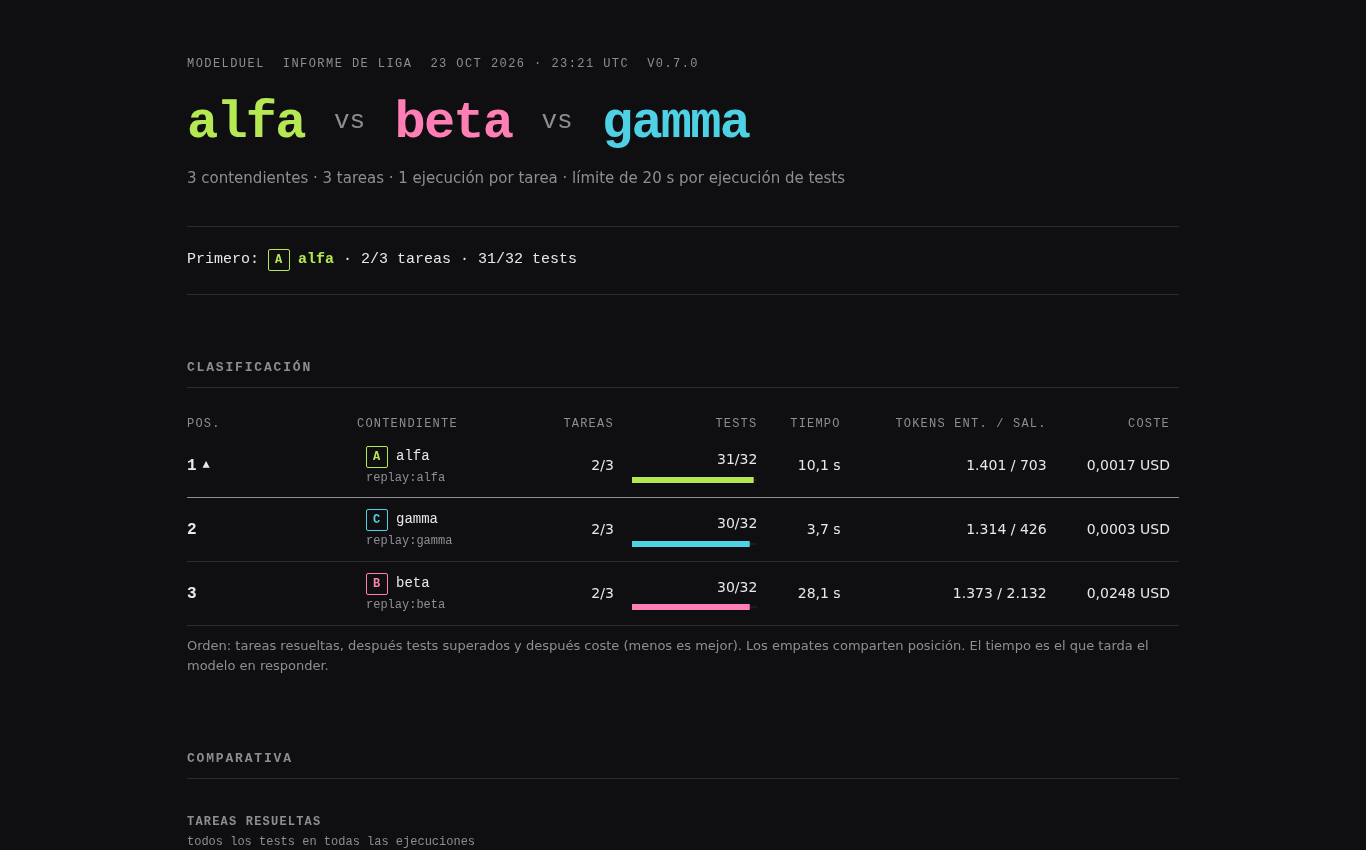
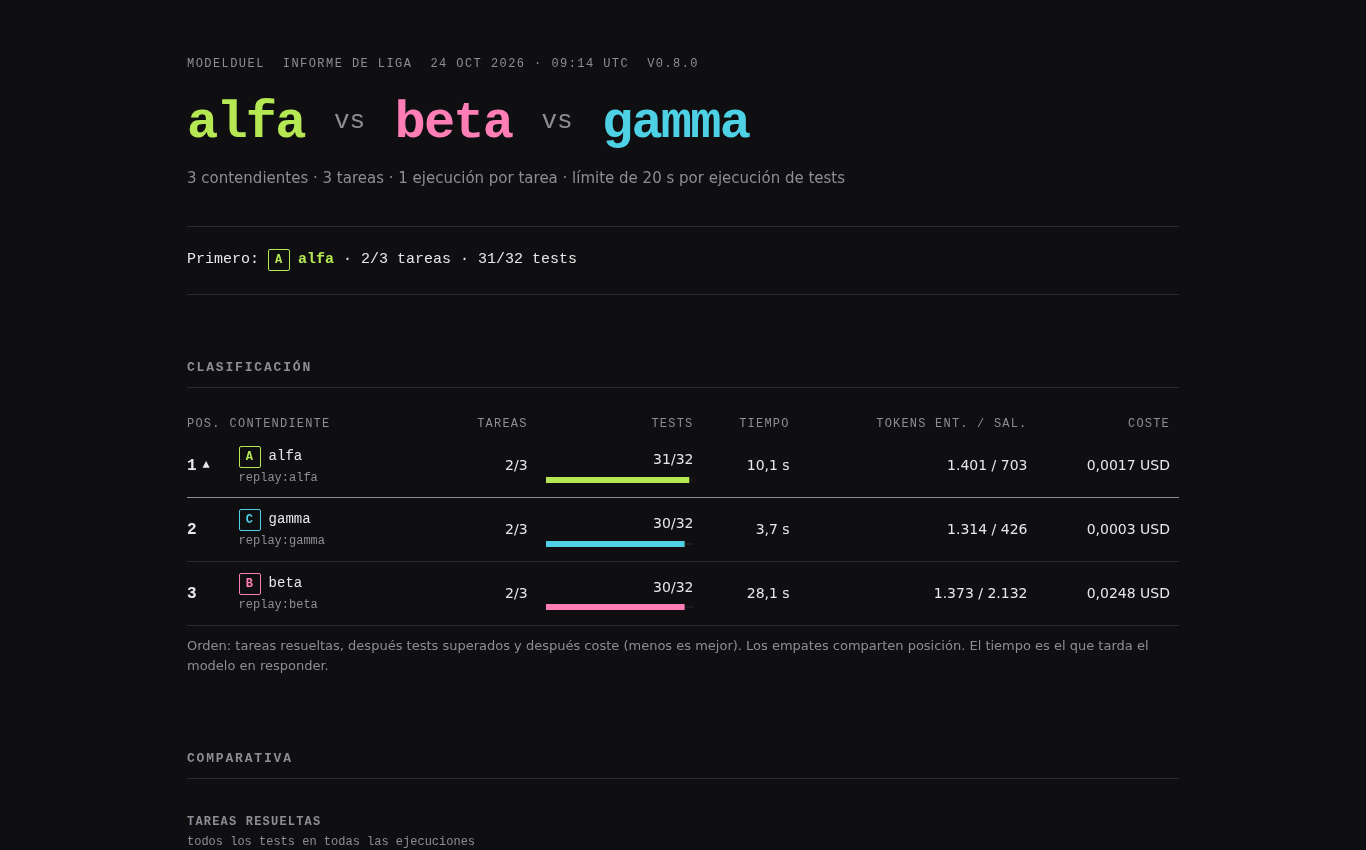
docs: cifras nuevas de los límites (memoria solo en Linux) y captura del informe con v0.8.0
Hecho por Claude a partir de la revisión final de Fable.

diff --git a/site/index.html b/site/index.html
@@ -224,7 +224,7 @@ modelduel report runs/duelo/results.json --out runs/duelo</code></pre>
 <section aria-labelledby="novedades">
   <h2 id="novedades">Novedades de v0.8.0</h2>
   <ul>
-    <li><strong>Ejecución más protegida</strong>: en Linux y macOS el código de los modelos corre con límites de memoria (1 GiB), CPU, tamaño de archivo y descriptores, con <code>HOME</code> en el temporal y sin el agente SSH ni más variables con credenciales. Los informes llevan una política de seguridad que prohíbe JavaScript.</li>
+    <li><strong>Ejecución más protegida</strong>: en Linux y macOS el código de los modelos corre con límites de CPU, tamaño de archivo (256 MiB) y descriptores, más memoria (4 GiB) en Linux, con <code>HOME</code> en el temporal y sin el agente SSH ni más variables con credenciales. Los informes llevan una política de seguridad que prohíbe JavaScript.</li>
     <li>Desde v0.7.0: <strong>señal de vida</strong>: si una llamada a un modelo tarda más de unos 10 s, modelduel avisa cada 10 s por <code>stderr</code> de que sigue esperando. El límite de red por defecto baja a 90 s (<code>MODELDUEL_HTTP_TIMEOUT</code> lo cambia).</li>
     <li>Desde v0.6.0: <strong>informe en Markdown</strong>: <code>modelduel report results.json --format md --out DIR</code> genera <code>informe.md</code>, listo para pegar en un PR o un issue, con el texto de <code>results.json</code> escapado.</li>
     <li>Desde v0.5.0: el <strong>duelo en directo</strong> de esta página y los informes más legibles. Desde v0.4.0: proveedor <code>omniroute:</code> y <a href="leaderboard/">clasificación pública</a>. Desde v0.2.0: liga de 2 a 6, reintentos y <code>--resume</code>.</li>

diff --git a/MEMORY.md b/MEMORY.md
@@ -2,7 +2,7 @@
 Última actualización: 2026-10-24 por Claude Code (jefe nocturno «mejoras 24/10/2026», rama `mejoras-2026-10-24`, v0.8.0)
 
 ## Estado actual
-**24/10/2026 · v0.8.0 en PR (rama `mejoras-2026-10-24`, sin fusionar):** endurecimiento del runner (setrlimit en POSIX: 1 GiB de memoria, CPU = límite + 5 s, archivos de 64 MiB, 256 descriptores, sin core; `HOME`/`USERPROFILE`/`XDG_*` al temporal; más variables sensibles fuera), CSP en informes, clasificación y portada, móvil arreglado (navegación de la portada, columna «Pos.» y pie de tablas), mypy en el CI, Python 3.13 en el CI, job «Seguridad» (gitleaks + pip-audit), Dependabot, `SECURITY.md`, README para usuarios (banner y capturas en `docs/img/`) con lo técnico en `docs/DESARROLLO.md`, `PLAN.md`, `.claude/agents/` y `.claude/skills/`. Tras fusionar: crear la Release `v0.8.0` (publica en PyPI).
+**24/10/2026 · v0.8.0 en PR (rama `mejoras-2026-10-24`, sin fusionar):** endurecimiento del runner (setrlimit en POSIX: 4 GiB de espacio de direcciones (solo Linux), CPU = límite + 5 s, archivos de 256 MiB, 256 descriptores, sin core; `HOME`/`USERPROFILE`/`XDG_*` al temporal; más variables sensibles fuera), CSP en informes, clasificación y portada, móvil arreglado (navegación de la portada, columna «Pos.» y pie de tablas), mypy en el CI, Python 3.13 en el CI, job «Seguridad» (gitleaks + pip-audit), Dependabot, `SECURITY.md`, README para usuarios (banner y capturas en `docs/img/`) con lo técnico en `docs/DESARROLLO.md`, `PLAN.md`, `.claude/agents/` y `.claude/skills/`. Tras fusionar: crear la Release `v0.8.0` (publica en PyPI).
 
 **PyPI ya no está pendiente:** modelduel 0.6.0 está publicado en <https://pypi.org/project/modelduel/>. Cada Release de GitHub publica en PyPI (Trusted Publishing, `release.yml`) y es irreversible; la versión de `pyproject.toml` debe coincidir con la etiqueta `vX.Y.Z` de la Release. Instalación recomendada: `pip install "modelduel[pytest]"`. #18 y #19 (insignia, enlace y avisos retirados): HECHO, en PR.
 
@@ -57,7 +57,7 @@ Base heredada de v0.1.0:
 - Duelo en directo (#32): `site/demo.js` (único `<script>` de la web, `defer`) trae `demo/results.json` con `fetch` solo al pulsar y reproduce la **primera tarea** del duelo en ~25 s. El reloj `t` es la única fuente de verdad y `render()` depende solo de `t`: pausar es parar el reloj y «Siguiente» (reduced-motion) salta a `t` = fin de fase. La lógica pura se exporta (`module.exports`) y se prueba con `node --test "tests/js/*.test.cjs"` (job `web` del CI y un test de Python que pasa el `results.json` real por `prepare`/`verdict` si hay Node).
 
 ## Decisiones (por qué)
-- 2026-10-24 (Claude, jefe nocturno): los límites POSIX se aplican con un arranque `python -c _BOOTSTRAP <json> <args>` que llama a `setrlimit` y luego a `pytest.main` en el mismo proceso. No se usa `preexec_fn` porque no es seguro con hilos (la señal de vida usa uno). Soft = hard para que la solución no pueda subirlos. `RLIMIT_NPROC` no se usa: cuenta todos los procesos del usuario y rompería en máquinas con muchos.
+- 2026-10-24 (Claude, jefe nocturno): los límites POSIX se aplican con un arranque `python -c _BOOTSTRAP <json> <args>` que llama a `setrlimit` y luego a `pytest.main` en el mismo proceso. No se usa `preexec_fn` porque no es seguro con hilos (la señal de vida usa uno). Soft = hard para que la solución no pueda subirlos, salvo la CPU: con soft == hard el núcleo manda SIGKILL y nunca SIGXCPU, así que el duro va un segundo por encima. Revisión final (Fable, 24/10): RLIMIT_AS de 1 GiB rompía con unos 24 hilos (sube a 4 GiB, es espacio de direcciones) y 64 MiB por archivo convertía en «import_error» una solución que imprime 70 MiB al importar (sube a 256 MiB; la lectura ya está acotada por `_read_capped`). `RLIMIT_NPROC` no se usa: cuenta todos los procesos del usuario y rompería en máquinas con muchos.
 - 2026-10-24: `HOME` y compañía apuntan al temporal, pero `PYTHONUSERBASE` conserva el valor real para que un pytest instalado con `pip install --user` siga cargando.
 - 2026-10-24: CSP en los informes (`default-src 'none'; style-src 'unsafe-inline'; img-src data:`) como defensa en profundidad: el escape con `e()` sigue siendo la primera barrera.
 - 2026-10-24: mypy ligero (no estricto, solo `src/`) en el extra `dev`; es una herramienta de desarrollo, no una dependencia de ejecución.
@@ -146,7 +146,7 @@ Descartados o matizados: (1) «reutilizar `.duel-bars`, `.metric`, `.board` en `
 - Un Retry-After entre 30 y 120 s se respeta entero en cada reintento: con `--retries 3` un proveedor saturado puede costar hasta 6 min por intento.
 - El aislamiento es solo un directorio temporal + subproceso con límite + entorno sin secretos + `HOME` en el temporal + `setrlimit` en POSIX + muerte del árbol de procesos: el código del modelo tiene red y puede leer y escribir en el resto del disco con rutas absolutas. En Windows no hay límite de memoria (pendiente: `JOB_OBJECT_LIMIT_PROCESS_MEMORY`). Está advertido en README y web; lo ideal es usar un contenedor o VM.
 - Un proceso que se desligue a propósito del árbol (`setsid`/doble fork en POSIX, `CREATE_BREAKAWAY_FROM_JOB` si el Job lo permitiera) puede sobrevivir. En Windows hay una ventana de milisegundos entre crear pytest y meterlo en el Job Object (Popen no permite crear el proceso suspendido).
-- El disco que pueda llenar una solución está acotado en POSIX a 64 MiB por archivo (`RLIMIT_FSIZE`, también la salida), pero no en total: puede crear muchos archivos dentro del límite de tiempo. En Windows solo lo acota el tiempo.
+- El disco que pueda llenar una solución está acotado en POSIX a 256 MiB por archivo (`RLIMIT_FSIZE`, también la salida), pero no en total: puede crear muchos archivos dentro del límite de tiempo. En Windows solo lo acota el tiempo.
 - `<details>` cerrados no se despliegan al imprimir en navegadores sin `::details-content` (p. ej. Firefox antiguo); sin JavaScript no hay alternativa fiable.
 - Los proveedores `gemini`, `openai` y `omniroute` solo se prueban con respuestas simuladas (sin red); no se han probado contra las APIs reales ni contra un OmniRoute en marcha (pendiente de Alberto).
 - El duelo en directo necesita servirse por HTTP (en `file://` el `fetch` de `demo/results.json` falla y la página muestra un aviso con el enlace al informe estático). No hay prueba automática en navegador real: se verificó a mano (pausa, reanudar, detener, `visibilitychange` y modo manual) y con capturas de Chrome; las pruebas automáticas cubren la lógica pura y el HTML.

diff --git a/CHANGELOG.md b/CHANGELOG.md
@@ -10,7 +10,7 @@ El formato sigue [Keep a Changelog](https://keepachangelog.com/es-ES/1.1.0/) y e
 
 ### Seguridad
 
-- **Ejecución del código de los modelos endurecida** (`runner.py`): en POSIX el subproceso arranca con `setrlimit` (1 GiB de memoria, CPU = límite de tiempo + 5 s, archivos de 64 MiB como máximo, 256 descriptores y sin volcados de memoria) mediante un arranque `python -c` que después llama a `pytest.main`, sin `preexec_fn` (no es seguro con el hilo de la señal de vida). `HOME`, `USERPROFILE`, `APPDATA` y `XDG_*` apuntan al temporal de la ejecución, y el filtro de entorno quita también `PASS*`, `AUTH` (`SSH_AUTH_SOCK`), `PRIVATE`, `COOKIE`, `SESSION`, `SIGNATURE`, `DSN`, `DATABASE_URL`, `DOCKER_HOST`, `KUBECONFIG`… Un final por señal (`SIGXCPU`, `SIGXFSZ`, `SIGKILL`) se explica en el mensaje.
+- **Ejecución del código de los modelos endurecida** (`runner.py`): en POSIX el subproceso arranca con `setrlimit` (4 GiB de espacio de direcciones, que solo aplica Linux; CPU = límite de tiempo + 5 s, con el duro un segundo por encima para que llegue SIGXCPU; archivos de 256 MiB como máximo, con un mensaje claro si se superan; 256 descriptores y sin volcados de memoria) mediante un arranque `python -c` que después llama a `pytest.main`, sin `preexec_fn` (no es seguro con el hilo de la señal de vida). `HOME`, `USERPROFILE`, `APPDATA` y `XDG_*` apuntan al temporal de la ejecución, y el filtro de entorno quita también `PASS*`, `AUTH` (`SSH_AUTH_SOCK`), `PRIVATE`, `COOKIE`, `SESSION`, `SIGNATURE`, `DSN`, `PROXY`, `WEBHOOK`, `_PWD`, `DATABASE_URL`, `DOCKER_HOST`, `KUBECONFIG`, `GNUPGHOME` y rutas a configuraciones con credenciales (`AWS_CONFIG_FILE`, `NETRC`, `DOCKER_CONFIG`…) Un final por señal (`SIGXCPU`, `SIGXFSZ`, `SIGKILL`) se explica en el mensaje.
 - **Content-Security-Policy** en los informes, la clasificación (`default-src 'none'`, sin scripts) y la portada (`script-src 'self'`): defensa en profundidad frente a XSS con salidas de modelos.
 - CI: job «Seguridad» con gitleaks (binario con suma SHA-256 comprobada, todo el historial) y pip-audit; Dependabot semanal y agrupado; `SECURITY.md`; el despliegue de Pages da `pages` e `id-token` solo al job que despliega.
 

diff --git a/AGENTS.md b/AGENTS.md
@@ -37,7 +37,7 @@ CLI que enfrenta a dos modelos de IA (o a una liga de hasta seis) con la misma t
 
 ## Seguridad
 El código generado por un modelo se ejecuta en local: siempre en un directorio temporal, en un subproceso con límite de tiempo, y avisándolo en el README. Las claves se leen de variables de entorno (`GEMINI_API_KEY`, `OPENAI_API_KEY`, `OMNIROUTE_API_KEY`), nunca de archivos del repositorio, y nunca se escriben en `results.json`, informes ni errores (`redact` en `providers/base.py`).
-- `runner.py` (desde v0.8.0): `safe_env(home=…)` quita las variables sensibles (`is_sensitive_var`: pistas como KEY, TOKEN, PASS, AUTH, SESSION… y la lista `_SENSITIVE_VARS`) y apunta `HOME`/`USERPROFILE`/`XDG_*` al temporal; en POSIX `resource_limits()` (1 GiB, CPU, 64 MiB por archivo, 256 descriptores, sin core) se aplica en el hijo con el arranque `_BOOTSTRAP` (nunca `preexec_fn`). Pruebas en `tests/test_sandbox.py`.
+- `runner.py` (desde v0.8.0): `safe_env(home=…)` quita las variables sensibles (`is_sensitive_var`: pistas como KEY, TOKEN, PASS, AUTH, SESSION… y la lista `_SENSITIVE_VARS`) y apunta `HOME`/`USERPROFILE`/`XDG_*` al temporal; en POSIX `resource_limits()` (4 GiB de espacio de direcciones, solo efectivo en Linux; CPU con el duro un segundo por encima del blando para que llegue SIGXCPU; 256 MiB por archivo, cuyo `OSError [Errno 27]` se explica en el mensaje; 256 descriptores; sin core) se aplica en el hijo con el arranque `_BOOTSTRAP` (nunca `preexec_fn`). Pruebas en `tests/test_sandbox.py`.
 - Los informes y la clasificación llevan una CSP sin scripts y la portada una con `script-src 'self'` (`tests/test_csp.py`). Si añades un recurso a la web, amplía la CSP a propósito.
 - `SECURITY.md` explica cómo avisar de una vulnerabilidad; el CI pasa gitleaks y pip-audit (job «Seguridad») y Dependabot abre PRs semanales agrupados.
 

diff --git a/README.md b/README.md
@@ -90,7 +90,7 @@ Primero cuentan las tareas resueltas, después los tests superados y, si todos l
 ## Seguridad
 
 > [!WARNING]
-> **El código generado por los modelos se ejecuta en tu máquina.** modelduel crea un directorio temporal propio y lo borra al terminar, ejecuta los tests en un subproceso con límite de tiempo, elimina las variables de entorno que parecen secretos (`KEY`, `TOKEN`, `SECRET`, `PASSWORD`, `PASS`, `AUTH`, `CREDENTIAL`, `PRIVATE`, `COOKIE`, `SESSION` y similares), retira `SSH_AUTH_SOCK` y apunta `HOME`/`USERPROFILE` al temporal. En Linux y macOS aplica además límites del sistema: 1 GiB de memoria, límite de CPU, archivos de 64 MiB como máximo, 256 descriptores y sin volcados de memoria. Al terminar mata el árbol de procesos (Job Object en Windows y grupo de procesos en POSIX).
+> **El código generado por los modelos se ejecuta en tu máquina.** modelduel crea un directorio temporal propio y lo borra al terminar, ejecuta los tests en un subproceso con límite de tiempo, elimina las variables de entorno que parecen secretos (`KEY`, `TOKEN`, `SECRET`, `PASSWORD`, `PASS`, `AUTH`, `CREDENTIAL`, `PRIVATE`, `COOKIE`, `SESSION`, `PROXY`, `WEBHOOK` y similares), retira `SSH_AUTH_SOCK` y apunta `HOME`/`USERPROFILE` al temporal. En Linux y macOS aplica además límites del sistema: límite de CPU, archivos de 256 MiB como máximo, 256 descriptores y sin volcados de memoria; en Linux, también 4 GiB de memoria (espacio de direcciones). Al terminar mata el árbol de procesos (Job Object en Windows y grupo de procesos en POSIX).
 >
 > Esto **no es un aislamiento real**: el código conserva acceso a la red y al disco mediante rutas absolutas. Úsalo con tareas de confianza e, idealmente, dentro de un contenedor o una máquina virtual.
 

diff --git a/docs/DESARROLLO.md b/docs/DESARROLLO.md
@@ -95,7 +95,7 @@ Sin tokens o sin precio, el informe muestra «sin datos». Las tarifas incluidas
 
 ## Seguridad de ejecución
 
-El runner usa un temporal propio (también como `HOME`), un subproceso limitado y un entorno depurado de secretos (`is_sensitive_var` en `runner.py`). Los límites (`resource_limits`) se aplican en el propio subproceso, sin `preexec_fn`, que no es seguro con el hilo de la señal de vida. En Linux y macOS aplica límites de memoria, CPU, tamaño de archivo, descriptores y volcados; en Windows usa Job Object y en POSIX un grupo de procesos para matar el árbol al terminar. Esto reduce riesgos, pero no constituye un sandbox: el código generado conserva red y acceso al disco con rutas absolutas.
+El runner usa un temporal propio (también como `HOME`), un subproceso limitado y un entorno depurado de secretos (`is_sensitive_var` en `runner.py`). Los límites (`resource_limits`) se aplican en el propio subproceso, sin `preexec_fn`, que no es seguro con el hilo de la señal de vida. En Linux y macOS aplica límites de CPU (el duro un segundo por encima del blando, para que llegue SIGXCPU y no SIGKILL), tamaño de archivo (256 MiB; CPython ignora SIGXFSZ y `write()` lanza `OSError [Errno 27]`, que el runner traduce a un mensaje), descriptores y volcados; el de memoria (4 GiB de espacio de direcciones, no de memoria residente) solo lo aplica Linux; en Windows usa Job Object y en POSIX un grupo de procesos para matar el árbol al terminar. Esto reduce riesgos, pero no constituye un sandbox: el código generado conserva red y acceso al disco con rutas absolutas.
 
 ## Clasificación
 

diff --git a/PLAN.md b/PLAN.md
@@ -4,7 +4,7 @@ Hoja de ruta priorizada y realista para el desarrollo de modelduel.
 
 ## Hecho hoy (24/10/2026, v0.8.0)
 - **Seguridad en el runner:**
-  - Implementación de límites `setrlimit` en POSIX: 1 GiB de memoria, CPU (con margen), archivos de máx. 64 MiB, 256 descriptores de archivos y desactivación de volcados de memoria (core).
+  - Implementación de límites `setrlimit` en POSIX: 4 GiB de espacio de direcciones (solo Linux), CPU (con margen y SIGXCPU), archivos de máx. 256 MiB, 256 descriptores de archivos y desactivación de volcados de memoria (core).
   - Redirección de `HOME` y variables `XDG_*` a un directorio temporal de ejecución para evitar fugas de configuración personal.
   - Filtrado estricto de variables de entorno sensibles (claves, tokens, cookies, DSN, etc.) antes de ejecutar el código del modelo.
   - Mensajes de error específicos cuando el proceso es terminado por señales del sistema (SIGXCPU, SIGXFSZ, etc.).

diff --git a/SECURITY.md b/SECURITY.md
@@ -14,8 +14,8 @@ Cuenta qué pasa, cómo reproducirlo y qué versión usas. Intentaremos responde
 
 modelduel **ejecuta en tu máquina el código que generan los modelos**. Lo hace en un directorio
 temporal, con límite de tiempo, sin las variables de entorno que parecen secretos, con `HOME`
-apuntando al temporal y, en Linux y macOS, con límites de memoria, CPU, tamaño de archivo y
-descriptores; al terminar mata todo el árbol de procesos. **No es un aislamiento real**: el código
+apuntando al temporal y, en Linux y macOS, con límites de CPU, tamaño de archivo (256 MiB) y
+descriptores, más un límite de memoria (4 GiB de espacio de direcciones) que solo aplica Linux; al terminar mata todo el árbol de procesos. **No es un aislamiento real**: el código
 tiene red y puede leer y escribir rutas absolutas del disco. Para código de modelos en los que no
 confíes, ejecuta modelduel dentro de un contenedor o una máquina virtual.
 
